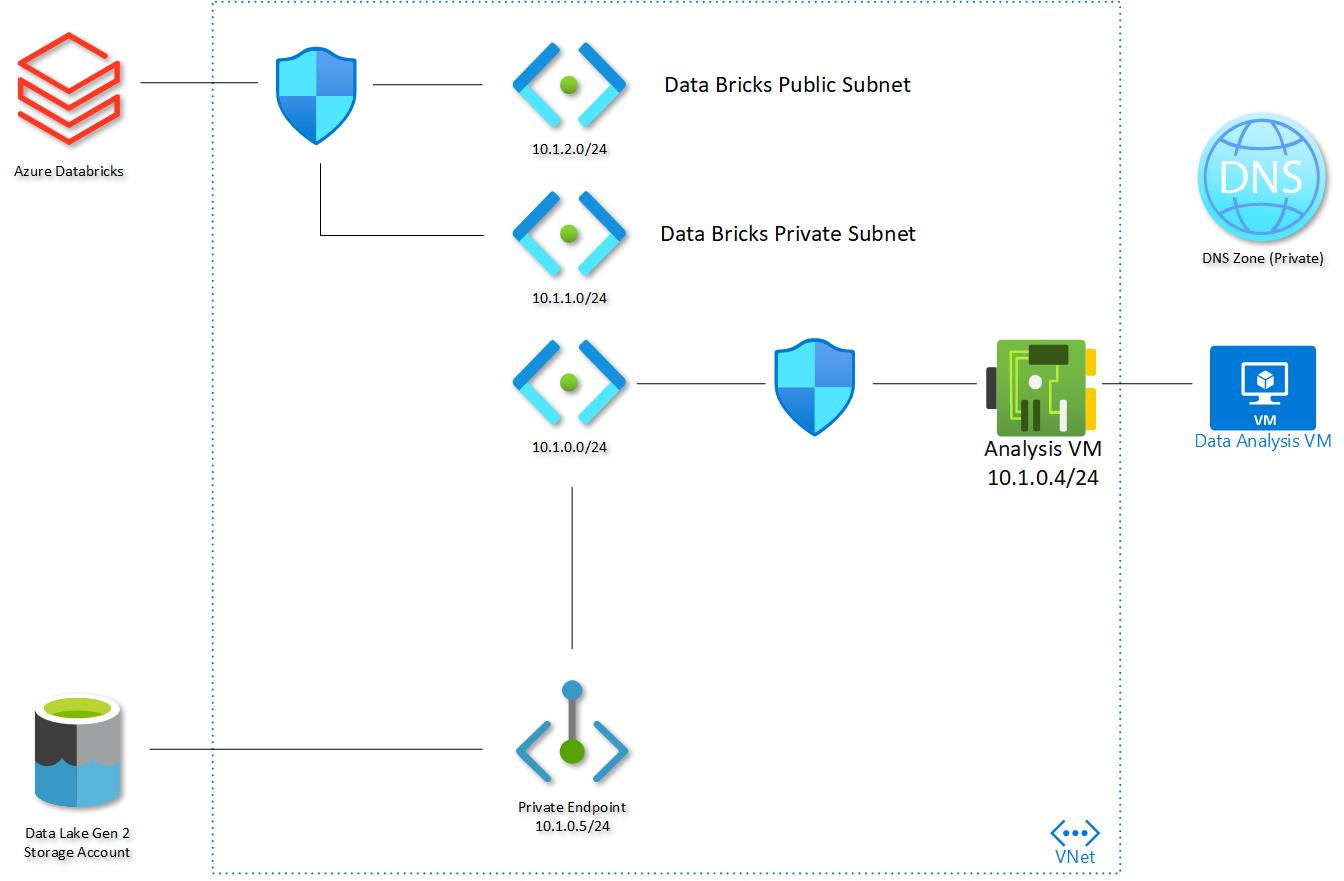
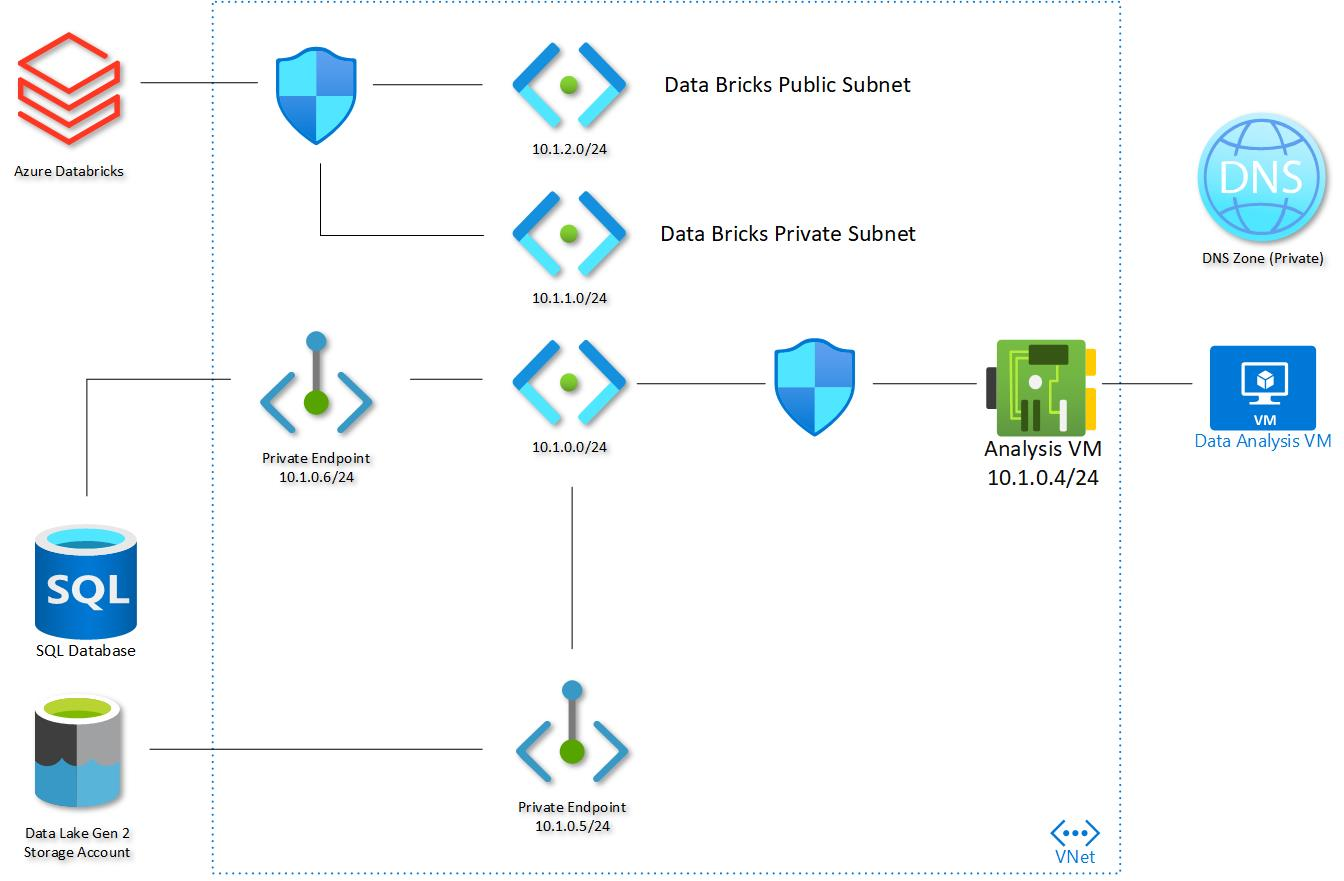
Updated doco and diagram

Changed region(s): [[0.0, 0.5823, 0.125, 0.7662], [0.1875, 0.3678, 0.2812, 0.5516], [0.0625, 0.4291, 0.0938, 0.4597]]

diff --git a/readme.md b/readme.md
@@ -1,12 +1,12 @@
 # Azure High Level Design
 <br/>
 
-## Azure Data Lake, Databricks and Analyst Virtual Machine - closed network configuration
+## Azure Data Lake, Databricks, Azure SQL and Analyst Virtual Machine - closed network configuration
 This article provides a template for deployment of Azure Data Lake Gen2 and Azure Databricks.
 
 
 # Overview
-This template deploys an [Azure Data Lake Gen2][DataLakeGen2Docs], an Azure VM and an Azure Databricks instance.  All three are configured to use a single VNet with multiple subnets with no public access to the services.
+This template deploys an [Azure Data Lake Gen2][DataLakeGen2Docs], an Azure VM, Azure SQL Server and an Azure Databricks instance.  All are configured to use a single VNet with multiple subnets with no public access to the services.
 The ADL is an Azure StorageV2 Account with heirachial namespace enabled which is configured as the data store.  The Azure VM acts as the Data Analyst VM which can have tools installed to access the services within the VNet.  The Databricks instance is configured in Private mode and the Public and Private subnets are Internal only, ensuring that no access the the service API can occur outside the VNet.
 
 <img src="images/highleveldesign.jpg" alt="HighLevelDesign" title="HighLevelDesign" width="50%" />
@@ -15,6 +15,8 @@ The ADL is an Azure StorageV2 Account with heirachial namespace enabled which is
 The Virtual machine is configured with a single NIC which is bound to the default subnet of 10.1.0.0/24.  There is an NSG on the vNIC which blocks all ports except from the VNet, so other subnets in the same VNet can be accessed.  To access this virtual machine from the portal, or from a remote location a [Public IP would have to be added to the virtual machine.][PublicIP]
 
 The ADL Storage account has all public access disabled, and has a Private Endpoint configured to attach to the default subnet alongside the VM.  This ensures that no services outside the Vnet can access the storage account.  
+
+The Azure SQL Server has Public access disabled and a private endpoint enabled to sit on the same subnet as the storage account.
 
 A private DNS zone has also been configured for the Vnet to allow for dynamic updates and name resolution of the ADL Storage Account Private Endpoint.  Any services using the VNet can query the name adlaccout1.privatelink.blob.core.windows.net and reach the Storage Account directly by [resolving the name in the private DNS zone.][PrivateDNS]
 
